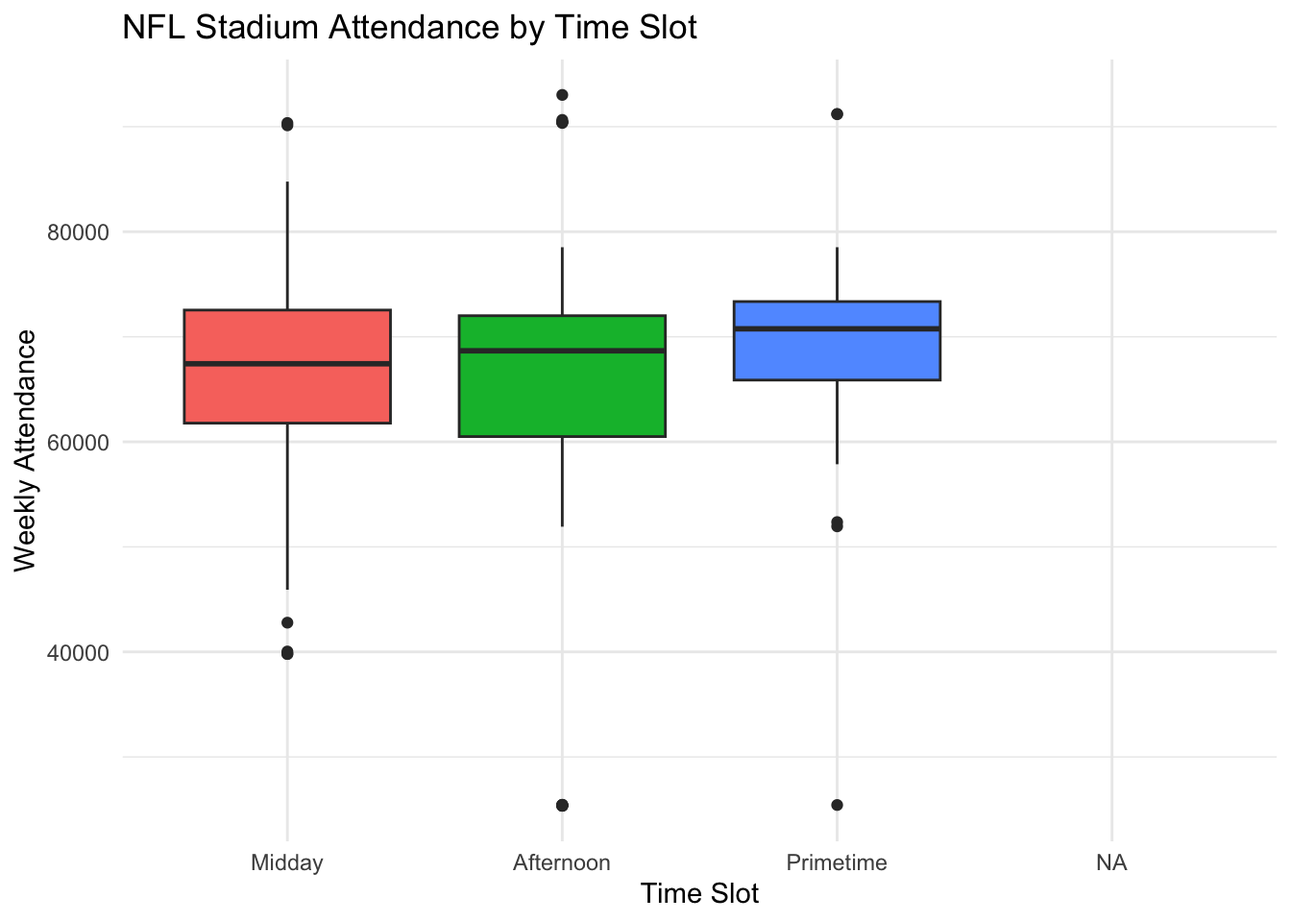
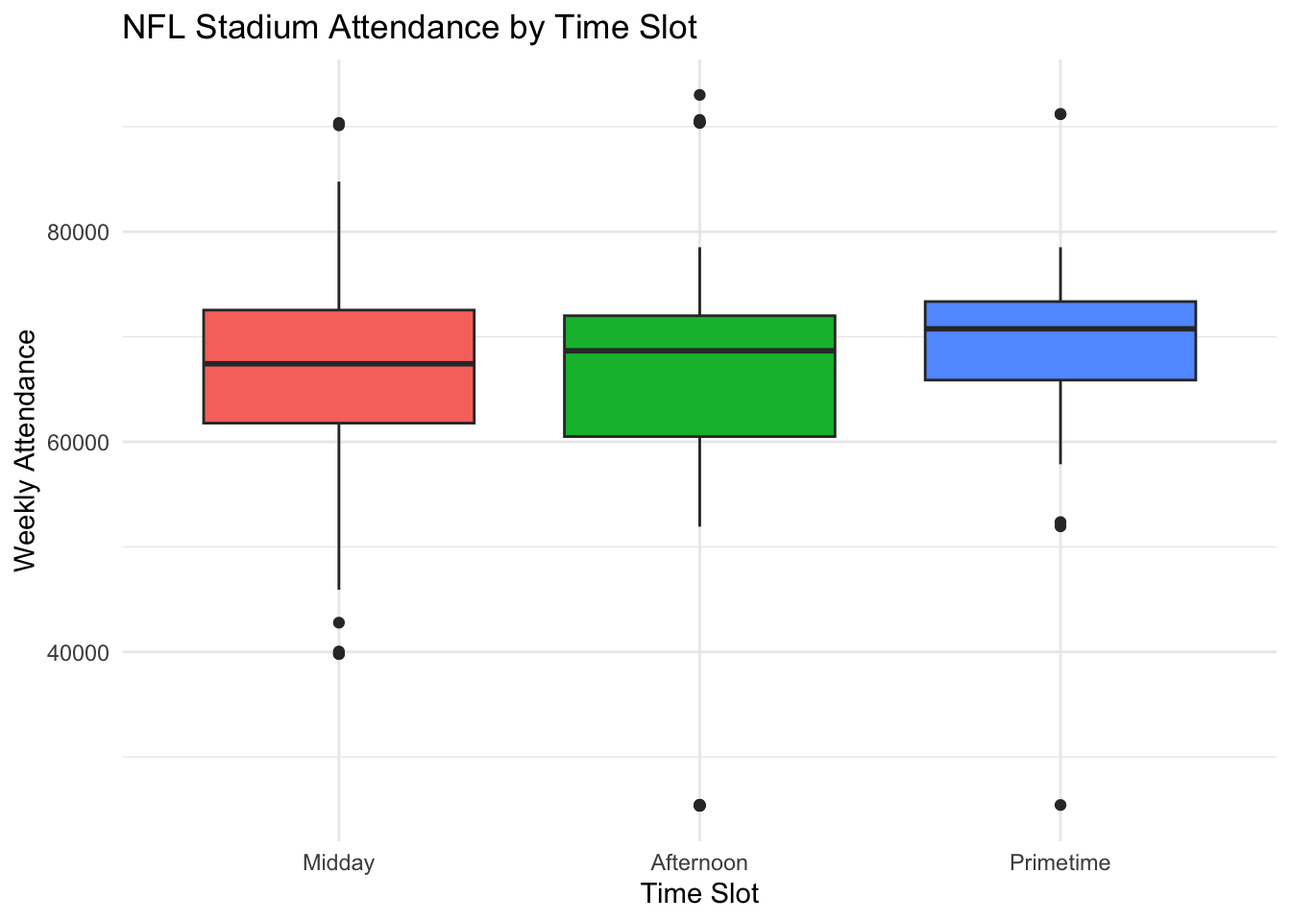
update 2nd blog post

diff --git a/docs/posts/second_blog_post/index.html b/docs/posts/second_blog_post/index.html
@@ -195,13 +195,13 @@ pre > code.sourceCode > span > a:first-child::before { text-decoration: underlin
 
 <section id="introduction" class="level1">
 <h1>Introduction</h1>
-<p>The data used in this analysis contains data on NFL stadium attendance, as well as time and day data on NFL games from the 2019 season (only games during 2019) The data set includes 299 observations, corresponding to the games played over this time period.</p>
-<p>The variables I am most interested in are the weekly stadium attendance count which is the attendance for a single game, and the day of week, time of day and week of the season the game took place. These variables provide insight into how many people attend NFL games depending on how chese variables change.</p>
+<p>The data used in this analysis contains data on NFL stadium attendance, as well as time and day data on NFL games from the 2019 season (only games played during 2019) The dataset includes 299 observations, corresponding to the games played during this time period.</p>
+<p>The variables I am most interested in are the weekly stadium attendance count which represents attendance for a single game, along with the day of week, time of day, and week within season the game took place. These variables provide insight into how attendance changes depending on when a game is played.</p>
 <p>This leads to my primary question of interest:</p>
 <p><strong>How does NFL stadium attendance vary by day of the week, kickoff time, and week within the season</strong></p>
 <p>The data was accessed through the TidyTuesday project on a GitHub repository. The original source of the data is from Pro Football Reference.</p>
-<p>Some additional context about the NFL is important for interpreting this data. The league consists of 32 teams across the United States, meaning some teams play in colder climates than others, but some teams also play indoor stadiums where the outdoor climate doesn’t impact the attendees experience. So further into the season when it is in November and December, some teams could see a drop in attendance because of the colder conditions.</p>
-<p>Also games are played at either a midday, afternoon, or a primetime slot, on the east coast these times correspond roughly to 1:00pm, 4:00pm, and 8:00pm. The time the game starts could also affect the attendance at the game because of travel concerns getting to the stadium and leaving the stadium at reasonable times. NFL games are typically played on Monday, Thursday or Sunday, with a few exceptions. This ties into the tie of day as Monday and Thursday games are also played during the primetime slot with a few exceptions, so attendance is impacted because of people’s work conflicts and prior commitments.</p>
+<p>Some additional context about the NFL is important for interpreting this data. The league consists of 32 teams across the United States, meaning some teams play in colder climates than others. Additionally, some teams play in indoor stadiums where outdoor weather doesn’t impact the fan experience. As the season progresses into November and December, teams in colder locations may experience a drop in attendance due to harsher weather conditions.</p>
+<p>Games are typically played in one of three main time slots. One the east coast, these correspond roughly to 1:00pm (midday), 4:00pm (afternoon), and 8:00pm (primetime). The time a game starts could also affect attendance due to travel logistics, convenience, and how late the game ends. NFL games are usually played on Monday, Thursday or Sunday, with a few exceptions. This ties into kickoff time, as Monday and Thursday games are generally played during the primetime slot, so attendance may also be influenced by people’s work schedules or prior commitments.</p>
 <p>Overall, these contextual factors motivate an exploration of how NFL stadium attendance is impacted by day of the week, kickoff time, and week within the season.</p>
 </section>
 <section id="primary-visualizations" class="level1">
@@ -218,56 +218,45 @@ pre > code.sourceCode > span > a:first-child::before { text-decoration: underlin
 <div class="cell">
 <div class="code-copy-outer-scaffold"><div class="sourceCode cell-code" id="cb3"><pre class="sourceCode r code-with-copy"><code class="sourceCode r"><span id="cb3-1"><a href="#cb3-1" aria-hidden="true" tabindex="-1"></a><span class="co"># Data Prep</span></span>
 <span id="cb3-2"><a href="#cb3-2" aria-hidden="true" tabindex="-1"></a>games <span class="ot">&lt;-</span> games <span class="sc">|&gt;</span></span>
-<span id="cb3-3"><a href="#cb3-3" aria-hidden="true" tabindex="-1"></a>  <span class="fu">mutate</span>(<span class="at">week =</span> <span class="fu">as.numeric</span>(week))</span></code></pre></div><button title="Copy to Clipboard" class="code-copy-button"><i class="bi"></i></button></div>
-<div class="cell-output cell-output-stderr">
-<pre><code>Warning: There was 1 warning in `mutate()`.
-ℹ In argument: `week = as.numeric(week)`.
-Caused by warning:
-! NAs introduced by coercion</code></pre>
-</div>
-<div class="code-copy-outer-scaffold"><div class="sourceCode cell-code" id="cb5"><pre class="sourceCode r code-with-copy"><code class="sourceCode r"><span id="cb5-1"><a href="#cb5-1" aria-hidden="true" tabindex="-1"></a>nfl_data <span class="ot">&lt;-</span> games <span class="sc">|&gt;</span></span>
-<span id="cb5-2"><a href="#cb5-2" aria-hidden="true" tabindex="-1"></a>  <span class="fu">left_join</span>(attendance, <span class="at">by =</span> <span class="fu">c</span>(<span class="st">"home_team_city"</span> <span class="ot">=</span> <span class="st">"team"</span>,</span>
-<span id="cb5-3"><a href="#cb5-3" aria-hidden="true" tabindex="-1"></a>                               <span class="st">"year"</span> <span class="ot">=</span> <span class="st">"year"</span>,</span>
-<span id="cb5-4"><a href="#cb5-4" aria-hidden="true" tabindex="-1"></a>                               <span class="st">"week"</span> <span class="ot">=</span> <span class="st">"week"</span>)) <span class="sc">|&gt;</span></span>
-<span id="cb5-5"><a href="#cb5-5" aria-hidden="true" tabindex="-1"></a>  <span class="fu">filter</span>(year <span class="sc">==</span> <span class="dv">2019</span>) <span class="sc">|&gt;</span></span>
-<span id="cb5-6"><a href="#cb5-6" aria-hidden="true" tabindex="-1"></a>  <span class="fu">select</span>(week, home_team, day, date, time, weekly_attendance) <span class="sc">|&gt;</span></span>
-<span id="cb5-7"><a href="#cb5-7" aria-hidden="true" tabindex="-1"></a>  <span class="fu">mutate</span>(</span>
-<span id="cb5-8"><a href="#cb5-8" aria-hidden="true" tabindex="-1"></a>    <span class="at">day =</span> <span class="fu">factor</span>(day, <span class="at">levels =</span> <span class="fu">c</span>(<span class="st">"Mon"</span>, <span class="st">"Tue"</span>, <span class="st">"Wed"</span>, <span class="st">"Thu"</span>, <span class="st">"Fri"</span>, <span class="st">"Sat"</span>, <span class="st">"Sun"</span>)),</span>
-<span id="cb5-9"><a href="#cb5-9" aria-hidden="true" tabindex="-1"></a>    <span class="at">date =</span> <span class="fu">mdy</span>(<span class="fu">paste0</span>(date, <span class="st">", "</span>, <span class="dv">2019</span>)),</span>
-<span id="cb5-10"><a href="#cb5-10" aria-hidden="true" tabindex="-1"></a>    <span class="at">hour =</span> <span class="fu">hour</span>(time),</span>
-<span id="cb5-11"><a href="#cb5-11" aria-hidden="true" tabindex="-1"></a>    <span class="at">time_slot =</span> <span class="fu">case_when</span>(</span>
-<span id="cb5-12"><a href="#cb5-12" aria-hidden="true" tabindex="-1"></a>      hour <span class="sc">&lt;=</span> <span class="fl">13.5</span> <span class="sc">~</span> <span class="st">"Midday"</span>,</span>
-<span id="cb5-13"><a href="#cb5-13" aria-hidden="true" tabindex="-1"></a>      hour <span class="sc">&lt;=</span> <span class="dv">17</span> <span class="sc">~</span> <span class="st">"Afternoon"</span>,</span>
-<span id="cb5-14"><a href="#cb5-14" aria-hidden="true" tabindex="-1"></a>      hour <span class="sc">&gt;=</span> <span class="dv">19</span> <span class="sc">~</span> <span class="st">"Primetime"</span>,</span>
-<span id="cb5-15"><a href="#cb5-15" aria-hidden="true" tabindex="-1"></a>      <span class="cn">TRUE</span> <span class="sc">~</span> <span class="st">"Other"</span></span>
-<span id="cb5-16"><a href="#cb5-16" aria-hidden="true" tabindex="-1"></a>    )</span>
-<span id="cb5-17"><a href="#cb5-17" aria-hidden="true" tabindex="-1"></a>  ) <span class="sc">|&gt;</span></span>
-<span id="cb5-18"><a href="#cb5-18" aria-hidden="true" tabindex="-1"></a>  <span class="fu">mutate</span>(<span class="at">time_slot =</span> <span class="fu">factor</span>(time_slot, </span>
-<span id="cb5-19"><a href="#cb5-19" aria-hidden="true" tabindex="-1"></a>                            <span class="at">levels =</span> <span class="fu">c</span>(<span class="st">"Midday"</span>, <span class="st">"Afternoon"</span>, <span class="st">"Primetime"</span>)))</span></code></pre></div><button title="Copy to Clipboard" class="code-copy-button"><i class="bi"></i></button></div>
-<div class="cell-output cell-output-stderr">
-<pre><code>Warning in left_join(games, attendance, by = c(home_team_city = "team", : Detected an unexpected many-to-many relationship between `x` and `y`.
-ℹ Row 9 of `x` matches multiple rows in `y`.
-ℹ Row 853 of `y` matches multiple rows in `x`.
-ℹ If a many-to-many relationship is expected, set `relationship =
-  "many-to-many"` to silence this warning.</code></pre>
-</div>
+<span id="cb3-3"><a href="#cb3-3" aria-hidden="true" tabindex="-1"></a>  <span class="fu">mutate</span>(<span class="at">week =</span> <span class="fu">as.numeric</span>(week))</span>
+<span id="cb3-4"><a href="#cb3-4" aria-hidden="true" tabindex="-1"></a></span>
+<span id="cb3-5"><a href="#cb3-5" aria-hidden="true" tabindex="-1"></a>nfl_data <span class="ot">&lt;-</span> games <span class="sc">|&gt;</span></span>
+<span id="cb3-6"><a href="#cb3-6" aria-hidden="true" tabindex="-1"></a>  <span class="fu">left_join</span>(attendance, <span class="at">by =</span> <span class="fu">c</span>(<span class="st">"home_team_city"</span> <span class="ot">=</span> <span class="st">"team"</span>,</span>
+<span id="cb3-7"><a href="#cb3-7" aria-hidden="true" tabindex="-1"></a>                               <span class="st">"year"</span> <span class="ot">=</span> <span class="st">"year"</span>,</span>
+<span id="cb3-8"><a href="#cb3-8" aria-hidden="true" tabindex="-1"></a>                               <span class="st">"week"</span> <span class="ot">=</span> <span class="st">"week"</span>)) <span class="sc">|&gt;</span></span>
+<span id="cb3-9"><a href="#cb3-9" aria-hidden="true" tabindex="-1"></a>  <span class="fu">filter</span>(year <span class="sc">==</span> <span class="dv">2019</span>) <span class="sc">|&gt;</span></span>
+<span id="cb3-10"><a href="#cb3-10" aria-hidden="true" tabindex="-1"></a>  <span class="fu">select</span>(week, home_team, day, date, time, weekly_attendance) <span class="sc">|&gt;</span></span>
+<span id="cb3-11"><a href="#cb3-11" aria-hidden="true" tabindex="-1"></a>  <span class="fu">mutate</span>(</span>
+<span id="cb3-12"><a href="#cb3-12" aria-hidden="true" tabindex="-1"></a>    <span class="at">day =</span> <span class="fu">factor</span>(day, <span class="at">levels =</span> <span class="fu">c</span>(<span class="st">"Mon"</span>, <span class="st">"Tue"</span>, <span class="st">"Wed"</span>, <span class="st">"Thu"</span>, <span class="st">"Fri"</span>, <span class="st">"Sat"</span>, <span class="st">"Sun"</span>)),</span>
+<span id="cb3-13"><a href="#cb3-13" aria-hidden="true" tabindex="-1"></a>    <span class="at">date =</span> <span class="fu">mdy</span>(<span class="fu">paste0</span>(date, <span class="st">", "</span>, <span class="dv">2019</span>)),</span>
+<span id="cb3-14"><a href="#cb3-14" aria-hidden="true" tabindex="-1"></a>    <span class="at">hour =</span> <span class="fu">hour</span>(time),</span>
+<span id="cb3-15"><a href="#cb3-15" aria-hidden="true" tabindex="-1"></a>    <span class="at">time_slot =</span> <span class="fu">case_when</span>(</span>
+<span id="cb3-16"><a href="#cb3-16" aria-hidden="true" tabindex="-1"></a>      hour <span class="sc">&lt;=</span> <span class="fl">13.5</span> <span class="sc">~</span> <span class="st">"Midday"</span>,</span>
+<span id="cb3-17"><a href="#cb3-17" aria-hidden="true" tabindex="-1"></a>      hour <span class="sc">&lt;=</span> <span class="dv">17</span> <span class="sc">~</span> <span class="st">"Afternoon"</span>,</span>
+<span id="cb3-18"><a href="#cb3-18" aria-hidden="true" tabindex="-1"></a>      hour <span class="sc">&gt;=</span> <span class="dv">19</span> <span class="sc">~</span> <span class="st">"Primetime"</span>,</span>
+<span id="cb3-19"><a href="#cb3-19" aria-hidden="true" tabindex="-1"></a>      <span class="cn">TRUE</span> <span class="sc">~</span> <span class="cn">NA_character_</span></span>
+<span id="cb3-20"><a href="#cb3-20" aria-hidden="true" tabindex="-1"></a>    )</span>
+<span id="cb3-21"><a href="#cb3-21" aria-hidden="true" tabindex="-1"></a>  ) <span class="sc">|&gt;</span></span>
+<span id="cb3-22"><a href="#cb3-22" aria-hidden="true" tabindex="-1"></a>  <span class="fu">filter</span>(<span class="sc">!</span><span class="fu">is.na</span>(time_slot)) <span class="sc">|&gt;</span></span>
+<span id="cb3-23"><a href="#cb3-23" aria-hidden="true" tabindex="-1"></a>  <span class="fu">mutate</span>(<span class="at">time_slot =</span> <span class="fu">factor</span>(time_slot, </span>
+<span id="cb3-24"><a href="#cb3-24" aria-hidden="true" tabindex="-1"></a>                            <span class="at">levels =</span> <span class="fu">c</span>(<span class="st">"Midday"</span>, <span class="st">"Afternoon"</span>, <span class="st">"Primetime"</span>)))</span></code></pre></div><button title="Copy to Clipboard" class="code-copy-button"><i class="bi"></i></button></div>
 </div>
 </section>
 <section id="plot-1-mean-nfl-stadium-attendance-by-week" class="level2">
 <h2 class="anchored" data-anchor-id="plot-1-mean-nfl-stadium-attendance-by-week">Plot 1: Mean NFL Stadium Attendance by Week</h2>
 <div class="cell">
-<div class="code-copy-outer-scaffold"><div class="sourceCode cell-code" id="cb7"><pre class="sourceCode r code-with-copy"><code class="sourceCode r"><span id="cb7-1"><a href="#cb7-1" aria-hidden="true" tabindex="-1"></a>nfl_data <span class="sc">|&gt;</span></span>
-<span id="cb7-2"><a href="#cb7-2" aria-hidden="true" tabindex="-1"></a>  <span class="fu">group_by</span>(week) <span class="sc">|&gt;</span></span>
-<span id="cb7-3"><a href="#cb7-3" aria-hidden="true" tabindex="-1"></a>  <span class="fu">summarise</span>(<span class="at">mean_attendance =</span> <span class="fu">mean</span>(weekly_attendance, <span class="at">na.rm =</span> <span class="cn">TRUE</span>)) <span class="sc">|&gt;</span></span>
-<span id="cb7-4"><a href="#cb7-4" aria-hidden="true" tabindex="-1"></a>  <span class="fu">ggplot</span>(<span class="fu">aes</span>(<span class="at">x =</span> week, <span class="at">y =</span> mean_attendance)) <span class="sc">+</span></span>
-<span id="cb7-5"><a href="#cb7-5" aria-hidden="true" tabindex="-1"></a>  <span class="fu">geom_segment</span>(<span class="fu">aes</span>(<span class="at">x =</span> week, <span class="at">xend =</span> week, <span class="at">y =</span> <span class="dv">0</span>, <span class="at">yend =</span> mean_attendance)) <span class="sc">+</span></span>
-<span id="cb7-6"><a href="#cb7-6" aria-hidden="true" tabindex="-1"></a>  <span class="fu">geom_point</span>() <span class="sc">+</span></span>
-<span id="cb7-7"><a href="#cb7-7" aria-hidden="true" tabindex="-1"></a>  <span class="fu">labs</span>(</span>
-<span id="cb7-8"><a href="#cb7-8" aria-hidden="true" tabindex="-1"></a>    <span class="at">title =</span> <span class="st">"Mean NFL Stadium Attendance by Week"</span>,</span>
-<span id="cb7-9"><a href="#cb7-9" aria-hidden="true" tabindex="-1"></a>    <span class="at">x =</span> <span class="st">"Week of Season"</span>,</span>
-<span id="cb7-10"><a href="#cb7-10" aria-hidden="true" tabindex="-1"></a>    <span class="at">y =</span> <span class="st">"Average Attendance"</span></span>
-<span id="cb7-11"><a href="#cb7-11" aria-hidden="true" tabindex="-1"></a>  ) <span class="sc">+</span></span>
-<span id="cb7-12"><a href="#cb7-12" aria-hidden="true" tabindex="-1"></a>  <span class="fu">theme_minimal</span>()</span></code></pre></div><button title="Copy to Clipboard" class="code-copy-button"><i class="bi"></i></button></div>
+<div class="code-copy-outer-scaffold"><div class="sourceCode cell-code" id="cb4"><pre class="sourceCode r code-with-copy"><code class="sourceCode r"><span id="cb4-1"><a href="#cb4-1" aria-hidden="true" tabindex="-1"></a>nfl_data <span class="sc">|&gt;</span></span>
+<span id="cb4-2"><a href="#cb4-2" aria-hidden="true" tabindex="-1"></a>  <span class="fu">group_by</span>(week) <span class="sc">|&gt;</span></span>
+<span id="cb4-3"><a href="#cb4-3" aria-hidden="true" tabindex="-1"></a>  <span class="fu">summarise</span>(<span class="at">mean_attendance =</span> <span class="fu">mean</span>(weekly_attendance, <span class="at">na.rm =</span> <span class="cn">TRUE</span>)) <span class="sc">|&gt;</span></span>
+<span id="cb4-4"><a href="#cb4-4" aria-hidden="true" tabindex="-1"></a>  <span class="fu">ggplot</span>(<span class="fu">aes</span>(<span class="at">x =</span> week, <span class="at">y =</span> mean_attendance)) <span class="sc">+</span></span>
+<span id="cb4-5"><a href="#cb4-5" aria-hidden="true" tabindex="-1"></a>  <span class="fu">geom_segment</span>(<span class="fu">aes</span>(<span class="at">x =</span> week, <span class="at">xend =</span> week, <span class="at">y =</span> <span class="dv">0</span>, <span class="at">yend =</span> mean_attendance)) <span class="sc">+</span></span>
+<span id="cb4-6"><a href="#cb4-6" aria-hidden="true" tabindex="-1"></a>  <span class="fu">geom_point</span>() <span class="sc">+</span></span>
+<span id="cb4-7"><a href="#cb4-7" aria-hidden="true" tabindex="-1"></a>  <span class="fu">labs</span>(</span>
+<span id="cb4-8"><a href="#cb4-8" aria-hidden="true" tabindex="-1"></a>    <span class="at">title =</span> <span class="st">"Mean NFL Stadium Attendance by Week"</span>,</span>
+<span id="cb4-9"><a href="#cb4-9" aria-hidden="true" tabindex="-1"></a>    <span class="at">x =</span> <span class="st">"Week of Season"</span>,</span>
+<span id="cb4-10"><a href="#cb4-10" aria-hidden="true" tabindex="-1"></a>    <span class="at">y =</span> <span class="st">"Average Attendance"</span></span>
+<span id="cb4-11"><a href="#cb4-11" aria-hidden="true" tabindex="-1"></a>  ) <span class="sc">+</span></span>
+<span id="cb4-12"><a href="#cb4-12" aria-hidden="true" tabindex="-1"></a>  <span class="fu">theme_minimal</span>()</span></code></pre></div><button title="Copy to Clipboard" class="code-copy-button"><i class="bi"></i></button></div>
 <div class="cell-output-display">
 <div>
 <figure class="figure">
@@ -276,21 +265,23 @@ Caused by warning:
 </div>
 </div>
 </div>
-<p>From the lollipop plot, we can see that within the 2019 NFL season, the average stadium attendance didn’t differ that much by week. It is interesting that the lowest average was in week 6 at around 64,000 attendees and the highest average was in week 7 at around 69,000 attendees. Both of these weeks occurred during mid October and no major events come to mind why these numbers are the furthest apart. A potential reason for the increase in attendance from week 6 to 7 is that there were more exciting games because better teams were playing each other or more rivalry games happened. Overall, this plot shows that the average NFL stadium attendance doesn’t change that much from week to week.</p>
+<p>From the lollipop plot, we can see that during the 2019 NFL season, average stadium attendance did not vary substantially from week to week. It is interesting that the lowest average attendance was in week 6 at around 64,000 attendees, while the highest average attendance was in week 7 at around 69,000 attendees. Both of these weeks occurred during mid-October, and there are no obvious external factors that immediately explain why these two week are the furthest apart.</p>
+<p>One possible explanation for the increase in attendance from week 6 to week 7 is variation in game quality. Week 7 may have featured more high profile matchups, stronger teams playing each other, or important rivalry games that attracted larger crowds.</p>
+<p>Overall, the plot suggests that average NFL stadium attendance remains relativelty stable throughout the season, with only small flucutations from week to week.</p>
 </section>
 <section id="plot-2-nfl-stadium-attendance-by-time-slot" class="level2">
 <h2 class="anchored" data-anchor-id="plot-2-nfl-stadium-attendance-by-time-slot">Plot 2: NFL Stadium Attendance by Time Slot</h2>
 <div class="cell">
-<div class="code-copy-outer-scaffold"><div class="sourceCode cell-code" id="cb8"><pre class="sourceCode r code-with-copy"><code class="sourceCode r"><span id="cb8-1"><a href="#cb8-1" aria-hidden="true" tabindex="-1"></a><span class="fu">ggplot</span>(nfl_data, <span class="fu">aes</span>(<span class="at">x =</span> time_slot, <span class="at">y =</span> weekly_attendance, </span>
-<span id="cb8-2"><a href="#cb8-2" aria-hidden="true" tabindex="-1"></a>                     <span class="at">fill =</span> time_slot)) <span class="sc">+</span></span>
-<span id="cb8-3"><a href="#cb8-3" aria-hidden="true" tabindex="-1"></a>  <span class="fu">geom_boxplot</span>() <span class="sc">+</span></span>
-<span id="cb8-4"><a href="#cb8-4" aria-hidden="true" tabindex="-1"></a>  <span class="fu">labs</span>(</span>
-<span id="cb8-5"><a href="#cb8-5" aria-hidden="true" tabindex="-1"></a>    <span class="at">title =</span> <span class="st">"NFL Stadium Attendance by Time Slot"</span>,</span>
-<span id="cb8-6"><a href="#cb8-6" aria-hidden="true" tabindex="-1"></a>    <span class="at">x =</span> <span class="st">"Time Slot"</span>,</span>
-<span id="cb8-7"><a href="#cb8-7" aria-hidden="true" tabindex="-1"></a>    <span class="at">y =</span> <span class="st">"Weekly Attendance"</span></span>
-<span id="cb8-8"><a href="#cb8-8" aria-hidden="true" tabindex="-1"></a>  ) <span class="sc">+</span></span>
-<span id="cb8-9"><a href="#cb8-9" aria-hidden="true" tabindex="-1"></a>  <span class="fu">theme_minimal</span>() <span class="sc">+</span></span>
-<span id="cb8-10"><a href="#cb8-10" aria-hidden="true" tabindex="-1"></a>  <span class="fu">theme</span>(<span class="at">legend.position =</span> <span class="st">"none"</span>)</span></code></pre></div><button title="Copy to Clipboard" class="code-copy-button"><i class="bi"></i></button></div>
+<div class="code-copy-outer-scaffold"><div class="sourceCode cell-code" id="cb5"><pre class="sourceCode r code-with-copy"><code class="sourceCode r"><span id="cb5-1"><a href="#cb5-1" aria-hidden="true" tabindex="-1"></a><span class="fu">ggplot</span>(nfl_data, <span class="fu">aes</span>(<span class="at">x =</span> time_slot, <span class="at">y =</span> weekly_attendance, </span>
+<span id="cb5-2"><a href="#cb5-2" aria-hidden="true" tabindex="-1"></a>                     <span class="at">fill =</span> time_slot)) <span class="sc">+</span></span>
+<span id="cb5-3"><a href="#cb5-3" aria-hidden="true" tabindex="-1"></a>  <span class="fu">geom_boxplot</span>() <span class="sc">+</span></span>
+<span id="cb5-4"><a href="#cb5-4" aria-hidden="true" tabindex="-1"></a>  <span class="fu">labs</span>(</span>
+<span id="cb5-5"><a href="#cb5-5" aria-hidden="true" tabindex="-1"></a>    <span class="at">title =</span> <span class="st">"NFL Stadium Attendance by Time Slot"</span>,</span>
+<span id="cb5-6"><a href="#cb5-6" aria-hidden="true" tabindex="-1"></a>    <span class="at">x =</span> <span class="st">"Time Slot"</span>,</span>
+<span id="cb5-7"><a href="#cb5-7" aria-hidden="true" tabindex="-1"></a>    <span class="at">y =</span> <span class="st">"Weekly Attendance"</span></span>
+<span id="cb5-8"><a href="#cb5-8" aria-hidden="true" tabindex="-1"></a>  ) <span class="sc">+</span></span>
+<span id="cb5-9"><a href="#cb5-9" aria-hidden="true" tabindex="-1"></a>  <span class="fu">theme_minimal</span>() <span class="sc">+</span></span>
+<span id="cb5-10"><a href="#cb5-10" aria-hidden="true" tabindex="-1"></a>  <span class="fu">theme</span>(<span class="at">legend.position =</span> <span class="st">"none"</span>)</span></code></pre></div><button title="Copy to Clipboard" class="code-copy-button"><i class="bi"></i></button></div>
 <div class="cell-output-display">
 <div>
 <figure class="figure">
@@ -299,21 +290,23 @@ Caused by warning:
 </div>
 </div>
 </div>
-<p>From the side-by-side boxplot, we can see are NFL stadium attendance was impacted by the game’s time slot in the 2019 season. The median attendance is the highest for primetime games which make sense as the NFL typically schedules the best games for the primetime slot. The midday time slot has the lowest median attendance this also makes sense as the worst games are typically scheduled for this time. Looking at the outliers and the nfl_data dataframe, the high outliers come from the Dallas Cowboys as they have the largest stadium in the NFL so they can hold more people. The low outliers mainly come from the Los Angeles Chargers who played in a smaller soccer stadium during the 2019 season as they were in the process of moving permanent stadiums.</p>
+<p>From the side-by-side boxplot, we can see that NFL stadium attendance was influenced by the game’s time slot during the 2019 season. The median attendance is higher for primetime games, which makes sense because the NFL typically schedules its most high profile matchups in the primetime slot. These games often feature stronger teams which are more likely to draw larger crowds. The midday time slot has the lowest median attendance. This also aligns with expectations, as lower profile games are generally scheudled during this window, which may lead to slightly smaller crowds.</p>
+<p>Looking at the outliers and referencing the <code>nfl_data</code> dataframe, the high attendance outliers are primarily from the Dallas Cowboys as they have the largest stadium in the NFL by capacity. This naturally allows for higher attendance totals compared to other teams. On the lower end, the main outliers from the Los Angeles Chargers, who played their 2019 home games at a much smaller soccer stadium, as they were in the process of moving to a new permanent stadium. As a result, their attendance numbers were capped at a lower level than most other teams.</p>
+<p>Overall, this plot suggests that kickoff time does have a noticeable relationship with attendance, with primetime games generally drawing the largest crowds.</p>
 </section>
 <section id="plot-3-nfl-stadium-attendance-by-date-day-and-time-slot" class="level2">
 <h2 class="anchored" data-anchor-id="plot-3-nfl-stadium-attendance-by-date-day-and-time-slot">Plot 3: NFL Stadium Attendance by Date, Day, and Time Slot</h2>
 <div class="cell">
-<div class="code-copy-outer-scaffold"><div class="sourceCode cell-code" id="cb9"><pre class="sourceCode r code-with-copy"><code class="sourceCode r"><span id="cb9-1"><a href="#cb9-1" aria-hidden="true" tabindex="-1"></a><span class="fu">ggplot</span>(nfl_data, <span class="fu">aes</span>(<span class="at">x =</span> date, <span class="at">y =</span> weekly_attendance, <span class="at">color =</span> time_slot)) <span class="sc">+</span></span>
-<span id="cb9-2"><a href="#cb9-2" aria-hidden="true" tabindex="-1"></a>  <span class="fu">geom_point</span>() <span class="sc">+</span> </span>
-<span id="cb9-3"><a href="#cb9-3" aria-hidden="true" tabindex="-1"></a>  <span class="fu">facet_wrap</span>(<span class="sc">~</span>day, <span class="at">ncol =</span> <span class="dv">1</span>) <span class="sc">+</span></span>
-<span id="cb9-4"><a href="#cb9-4" aria-hidden="true" tabindex="-1"></a>  <span class="fu">xlim</span>(<span class="fu">as.Date</span>(<span class="st">"2019-09-01"</span>), <span class="fu">as.Date</span>(<span class="st">"2020-01-05"</span>)) <span class="sc">+</span></span>
-<span id="cb9-5"><a href="#cb9-5" aria-hidden="true" tabindex="-1"></a>  <span class="fu">labs</span>(</span>
-<span id="cb9-6"><a href="#cb9-6" aria-hidden="true" tabindex="-1"></a>    <span class="at">title =</span> <span class="st">"NFL Stadium Attendance by Date, Day, and Time Slot"</span>,</span>
-<span id="cb9-7"><a href="#cb9-7" aria-hidden="true" tabindex="-1"></a>    <span class="at">x =</span> <span class="st">"Date"</span>,</span>
-<span id="cb9-8"><a href="#cb9-8" aria-hidden="true" tabindex="-1"></a>    <span class="at">y =</span> <span class="st">"Stadium Attendance"</span>,</span>
-<span id="cb9-9"><a href="#cb9-9" aria-hidden="true" tabindex="-1"></a>    <span class="at">color =</span> <span class="st">"Time Slot"</span></span>
-<span id="cb9-10"><a href="#cb9-10" aria-hidden="true" tabindex="-1"></a>  )</span></code></pre></div><button title="Copy to Clipboard" class="code-copy-button"><i class="bi"></i></button></div>
+<div class="code-copy-outer-scaffold"><div class="sourceCode cell-code" id="cb6"><pre class="sourceCode r code-with-copy"><code class="sourceCode r"><span id="cb6-1"><a href="#cb6-1" aria-hidden="true" tabindex="-1"></a><span class="fu">ggplot</span>(nfl_data, <span class="fu">aes</span>(<span class="at">x =</span> date, <span class="at">y =</span> weekly_attendance, <span class="at">color =</span> time_slot)) <span class="sc">+</span></span>
+<span id="cb6-2"><a href="#cb6-2" aria-hidden="true" tabindex="-1"></a>  <span class="fu">geom_point</span>() <span class="sc">+</span> </span>
+<span id="cb6-3"><a href="#cb6-3" aria-hidden="true" tabindex="-1"></a>  <span class="fu">facet_wrap</span>(<span class="sc">~</span>day, <span class="at">ncol =</span> <span class="dv">1</span>) <span class="sc">+</span></span>
+<span id="cb6-4"><a href="#cb6-4" aria-hidden="true" tabindex="-1"></a>  <span class="fu">xlim</span>(<span class="fu">as.Date</span>(<span class="st">"2019-09-01"</span>), <span class="fu">as.Date</span>(<span class="st">"2020-01-05"</span>)) <span class="sc">+</span></span>
+<span id="cb6-5"><a href="#cb6-5" aria-hidden="true" tabindex="-1"></a>  <span class="fu">labs</span>(</span>
+<span id="cb6-6"><a href="#cb6-6" aria-hidden="true" tabindex="-1"></a>    <span class="at">title =</span> <span class="st">"NFL Stadium Attendance by Date, Day, and Time Slot"</span>,</span>
+<span id="cb6-7"><a href="#cb6-7" aria-hidden="true" tabindex="-1"></a>    <span class="at">x =</span> <span class="st">"Date"</span>,</span>
+<span id="cb6-8"><a href="#cb6-8" aria-hidden="true" tabindex="-1"></a>    <span class="at">y =</span> <span class="st">"Stadium Attendance"</span>,</span>
+<span id="cb6-9"><a href="#cb6-9" aria-hidden="true" tabindex="-1"></a>    <span class="at">color =</span> <span class="st">"Time Slot"</span></span>
+<span id="cb6-10"><a href="#cb6-10" aria-hidden="true" tabindex="-1"></a>  )</span></code></pre></div><button title="Copy to Clipboard" class="code-copy-button"><i class="bi"></i></button></div>
 <div class="cell-output-display">
 <div>
 <figure class="figure">
@@ -322,20 +315,24 @@ Caused by warning:
 </div>
 </div>
 </div>
-<p>Now we are taking a look at how day of week, time of day and week within the season all impact stadium attendance. Looking at Monday, we can see that all the games occurred during the primetime slot and many games were in between 60,000 and 80,000 attendees. Moving to Thursday, many of the games also occurred during the primetime slot besides a couple of games in late November. These games were the Thanksgiving games, and we can see the afternoon game had the highest attendance for all Thursday games. This is because it has hosted by the Dallas Cowboys who have the largest stadium, and it is an NFL traditional for the Cowboys to host a thanksgiving game.</p>
-<p>Next is the couple of Saturday games, this only happens during one week during the season when there is no college football that week, and the people need something to watch on that Saturday. For Sunday games, they contain many games from all time slots, a majority of the games having between 60,000 and 80,000 attendees, with some outliers due to stadiums being bigger or smaller than usual. Also, compared to the weekday games, there are more games below 60,000 attendees because there are also more midday and afternoon games which are less desirable to go to. Over the course of the entire season the attendance remains the same for the most part.</p>
+<p>This final plot examines how day of the week, time of day, and week within the season jointly relates to stadium attendance. Looking first at Monday games, all of them occur in the primetime slot. Attendance for these games generally falls between 60,000 and 80,00 attendees, reflecting the importance of Monday Night Football and the tendency to schedule high profile games during this time.</p>
+<p>For Thursday games, most also take place during the primetime slot, with the exception of a few games in late November. These are the Thanksgiving Day games, which include an afternoon game. This games shows the highest attendance among Thursday games largely because it was hosted by the Dallas Cowboys, who have the largest stadium in the NFL, and it is a NFL tradition for the Cowboys to host a Thanksgiving game. There are also a small number of Saturday games, which tpyically occur late in the season once the college football regular season has finished. These games provide additional national viewing opportunities and tend to follow similar attendance patterns to Sunday games.</p>
+<p>Sunday games make up the majority of the schedule and include games across all three time slots. Most Sunday games fall between 60,000 and 80,000 attendees, though there are some outliers due to differences in stadium capacity. Compared to weekday games, there are more games below 60,000 attendees largerly because many Sunday matchups are played in the midday and afternoon time slots, which tend to draw slightly smaller crowds on average.</p>
+<p>Overall, across the full season, attendance appears relatively stable, with variations more strongly associated with time slot and stadium capacity than with the specific week of the season.</p>
 </section>
 </section>
 <section id="conclusion" class="level1">
 <h1>Conclusion</h1>
-<p>The analysis doesn’t provide much evidence that NFL stadium attendance varies by time of day, day of week, and week within the season. As week within the season seemed like it didn’t change the attendance numbers at all. However, there was some evidence that attendance varies between timeslots and days because these two are tied together as Monday and Thursday games almost primarily hold primetime games. In those games it seems like stadium attendance is a little bit higher because of factors including better matchups between teams and easier to fit into peoples schedules.</p>
-<p>With additional data, a next step could be to incorporate the maximum capacity for each stadium and then take the stadium attendance rate. This would help filter how larger stadiums like the Cowboys stadium and smaller stadiums like the Chargers stadium. It would be easier to yes it attendance rate changes by time of day, day of week, and week within the season. My hypothesis would be that there would be a lot more variance in stadium attendance later into the season compared to earlier in the season because some teams are fighter for the playoffs where the stadiums will be sold out. And other teams stadiums will not be filled because their season is already over. This is difficult to convey when I used the attendance count rather than rate because of the drastically different stadium sizes.</p>
+<p>Overall, this analysis does not provide strong evidence that NFL stadium attendance varies substantially by week within the season. Average attendance appears relatively stable from week to week, suggesting that the timing within the season alone does not meaningfully impact how many fans attend games. There is, however, some evidence that attendance varies by time slot and day of the week. These two factors are closely related, as Monday and Thursday games are almost exclusively played in the primetime slot. Primetime games tend to show slightly higher attendance, which may be due to higher quality matchups, increased national attention, and scheduling that better fits fans’ work and personal commitments.</p>
+<p>One limitation of this analysis is that it uses raw attendance counts rather than attendance as a percentage of stadium capacity. Stadium sizes vary significantly across the league. Because of these differences, attendance counts alone may reflect stadium capacity rather than true fan demand.</p>
+<p>With additional data, a next step would be to incorporate each stadium’s maximum capacity and calculate an attendance rate. This would allow for a more meaningful comparison across teams and better isolate whether attendance truly changes by time of day, day of week, or week within the season. If attendance rate data were available, I would hypothesize that there would be greater variation later in the season compared to earlier weeks. Teams competing for playoff spots may experience sellout crowds, while teams that are no longer in contention may see reduced attendance. Using attendance rates instead of raw counts would make these differences easier to detect and interpret.</p>
 </section>
 <section id="connection-to-class-ideas" class="level1">
 <h1>Connection to Class Ideas</h1>
-<p>The first plot was a lollipop plot for the mean attendance by each week, I just wanted to show the average and didn’t care about showing the distribution of the data in this plot.</p>
-<p>For the second plot, I used a side-by-side boxplot because it effectively displays a single quantitative and a single categorical variables, and makes it easy to see the differences in distributions in attendance between different time slots. A unordered color palette was used because it is just a categorical variable with no relation to the other categories.</p>
+<p>The first plot uses a lollipop chart to display the mean attendance for each week of the season. Since my goal was to compare average attendance across weeks rather than examine the full distribution of values, a lollipop plot was an effective choice. It clearly emphasizes differences in means while minimizing visual clutter, making it easy to compare weeks side by side.</p>
+<p>For the second plot, I used a side-by-side boxplot because it effectively displays the relationship between one quantitative variable (attendance) and one categorical variable (time slot). Boxplots are useful for comparing distributions, as they show the median, spread, and potential outliers within each group. This makes it easy to see how attendance differs across time slots. An unordered color palette was appropriate because time slot is a categorical variable without a numeric progression.</p>
 <p>For the third plot, I faceted by the day and color coded by the time slot so that the plot was easier to read and so that viewers could see all the different variables at once. All the plots are intentionally simple, so viewers can quickly understand the patterns without being overwhelmed.</p>
+<p>For the third plot, I used faceting by day of the week and color coding by time slot to allow viewers to examine multiple variables simultaneously. Both of these are effective ways to display multivariate relationships without overcrowding the plot. Overall, the plots were intentionally designed to be simple and uncluttered. By avoiding unnecessary complexity, the visualizations allow viewers to quickly interpret patterns in attendance without being overwhelmed by excessive detail.</p>
 
 
 </section>

diff --git a/docs/index.html b/docs/index.html
@@ -209,7 +209,7 @@ window.Quarto = {
 
 <div class="quarto-listing quarto-listing-container-default" id="listing-listing">
 <div class="list quarto-listing-default">
-<div class="quarto-post image-right" data-index="0" data-categories="YW5hbHlzaXM=" data-listing-date-sort="1771304400000" data-listing-file-modified-sort="1771380710643" data-listing-date-modified-sort="NaN" data-listing-reading-time-sort="9" data-listing-word-count-sort="1670">
+<div class="quarto-post image-right" data-index="0" data-categories="YW5hbHlzaXM=" data-listing-date-sort="1771304400000" data-listing-file-modified-sort="1771423564697" data-listing-date-modified-sort="NaN" data-listing-reading-time-sort="10" data-listing-word-count-sort="1934">
 <div class="thumbnail"><a href="./posts/second_blog_post/index.html" class="no-external">
 
 <p class="card-img-top"><img src="posts/second_blog_post/index_files/figure-html/unnamed-chunk-4-1.png"  class="thumbnail-image card-img"/></p>
@@ -225,7 +225,7 @@ window.Quarto = {
 
 </div>
 <div class="delink listing-description"><a href="./posts/second_blog_post/index.html" class="no-external">
-The data used in this analysis contains data on NFL stadium attendance, as well as time and day data on NFL games from the 2019 season (only games during 2019) The data set…
+The data used in this analysis contains data on NFL stadium attendance, as well as time and day data on NFL games from the 2019 season (only games played during 2019) The…
 </a></div>
 </div>
 <div class="metadata">
